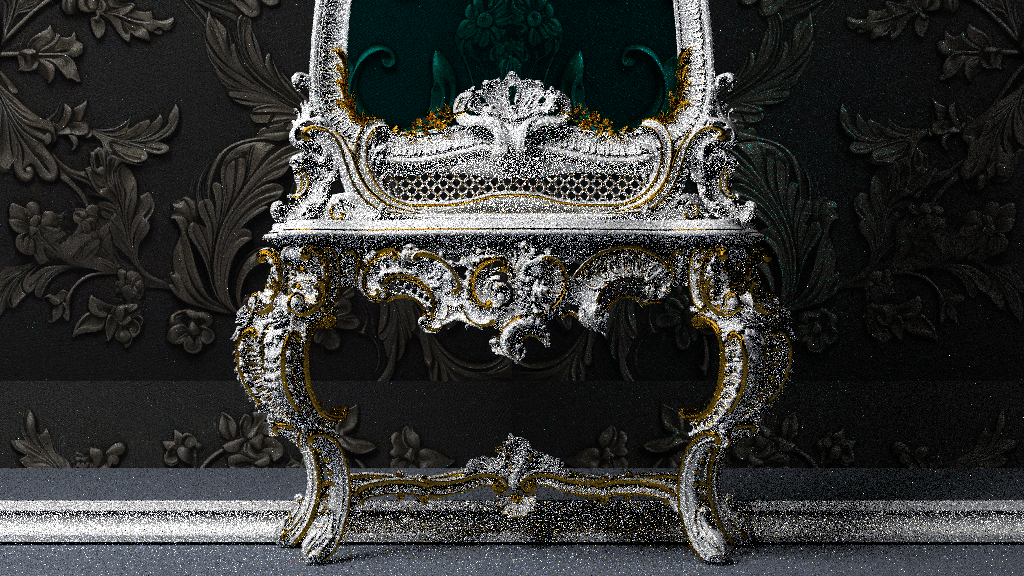
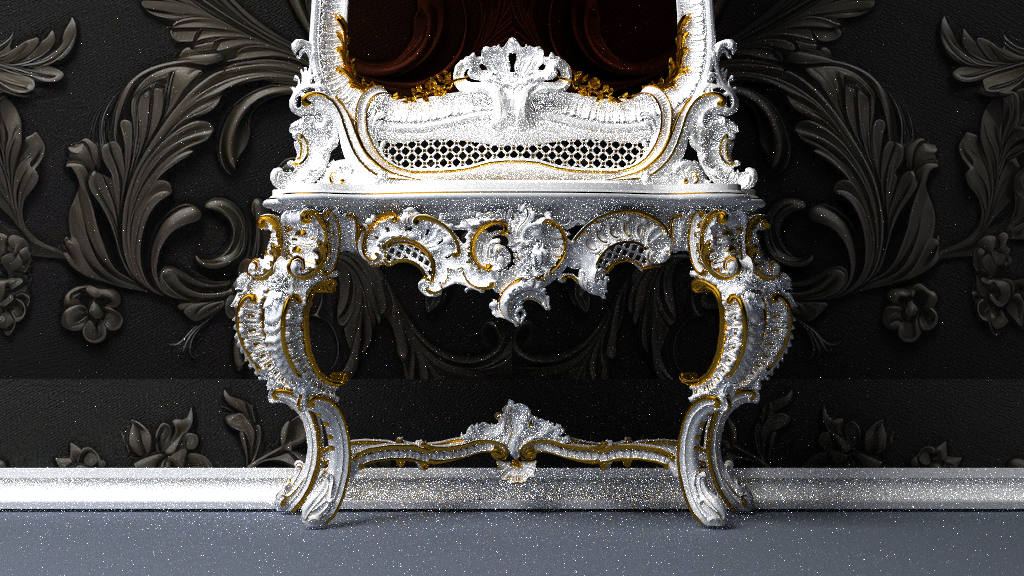
Fix dielectric material with texture attenuation

diff --git a/core/materials/dielectric_material.cpp b/core/materials/dielectric_material.cpp
@@ -44,7 +44,9 @@
 
 #include "dielectric_material.h"
 
-#include "../misc/singleton.h"
+//#include "../misc/singleton.h"
+
+#include "../textures/solid_color_texture.h"
 
 dielectric_material::dielectric_material(double index_of_refraction)
     : ir(index_of_refraction)
@@ -53,6 +55,11 @@ dielectric_material::dielectric_material(double index_of_refraction)
 
 dielectric_material::dielectric_material(double index_of_refraction, std::shared_ptr<texture> texture_attenuation)
     : ir(index_of_refraction), attenuation_texture(texture_attenuation)
+{
+}
+
+dielectric_material::dielectric_material(double index_of_refraction, const color& rgb)
+    : ir(index_of_refraction), attenuation_texture(std::make_shared<solid_color_texture>(rgb))
 {
 }
 

diff --git a/core/materials/dielectric_material.h b/core/materials/dielectric_material.h
@@ -3,7 +3,7 @@
 #include "../misc/ray.h"
 #include "../misc/color.h"
 #include "../textures/texture.h"
-#include "../primitives/hittable.h"
+//#include "../primitives/hittable.h"
 #include "../materials/material.h"
 #include "../primitives/hittable_list.h"
 #include "../misc/scatter_record.h"
@@ -19,6 +19,7 @@ class dielectric_material : public material
 public:
     dielectric_material(double index_of_refraction);
     dielectric_material(double index_of_refraction, std::shared_ptr<texture> texture_attenuation);
+    dielectric_material(double index_of_refraction, const color& rgb);
 
     bool scatter(const ray& r_in, const hittable_list& lights, const hit_record& rec, scatter_record& srec, randomizer& rnd) const override;
    

diff --git a/core/scenes/scene_builder.h b/core/scenes/scene_builder.h
@@ -93,7 +93,7 @@ class scene_builder
 
         // Materials
         scene_builder& addGlassMaterial(const std::string& materialName, double refraction);
-        scene_builder& addGlassMaterial(const std::string& materialName, double refraction, const std::string& filepath);
+        scene_builder& addGlassMaterial(const std::string& materialName, double refraction, const std::string& textureName);
         scene_builder& addGlassMaterial(const std::string& materialName, double refraction, const color& rgb);
         scene_builder& addLambertianMaterial(const std::string& materialName, const color& rgb);
         scene_builder& addLambertianMaterial(const std::string& materialName, const std::string& textureName);

diff --git a/core/scenes/scene_builder.cpp b/core/scenes/scene_builder.cpp
@@ -305,10 +305,9 @@ scene_builder& scene_builder::addGlassMaterial(const std::string &materialName, 
     return *this;
 }
 
-scene_builder& scene_builder::addGlassMaterial(const std::string& materialName, double refraction, const std::string& filepath)
+scene_builder& scene_builder::addGlassMaterial(const std::string& materialName, double refraction, const std::string& textureName)
 {
-    auto tex = std::make_shared<image_texture>(filepath);
-    this->m_materials[materialName] = std::make_shared<dielectric_material>(refraction, tex);
+    this->m_materials[materialName] = std::make_shared<dielectric_material>(refraction, fetchTexture(textureName));
     return *this;
 }
 
